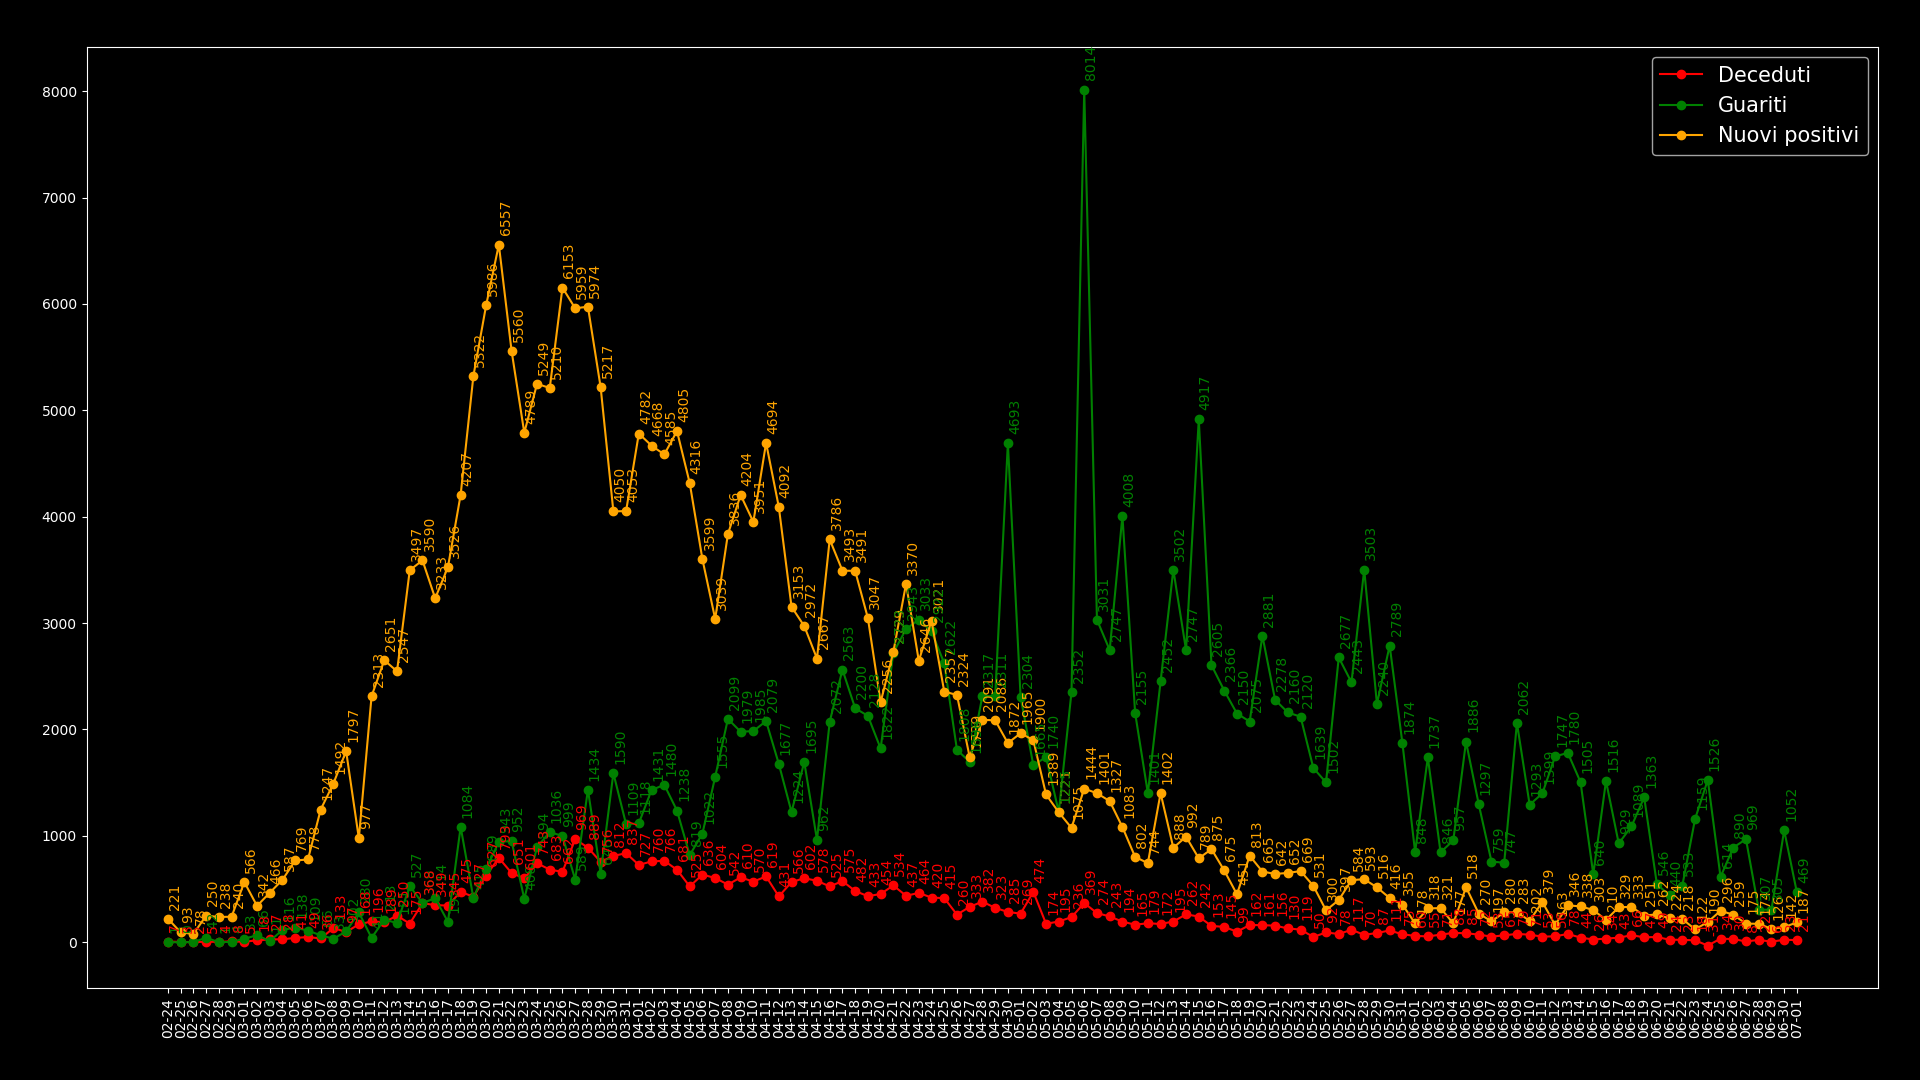
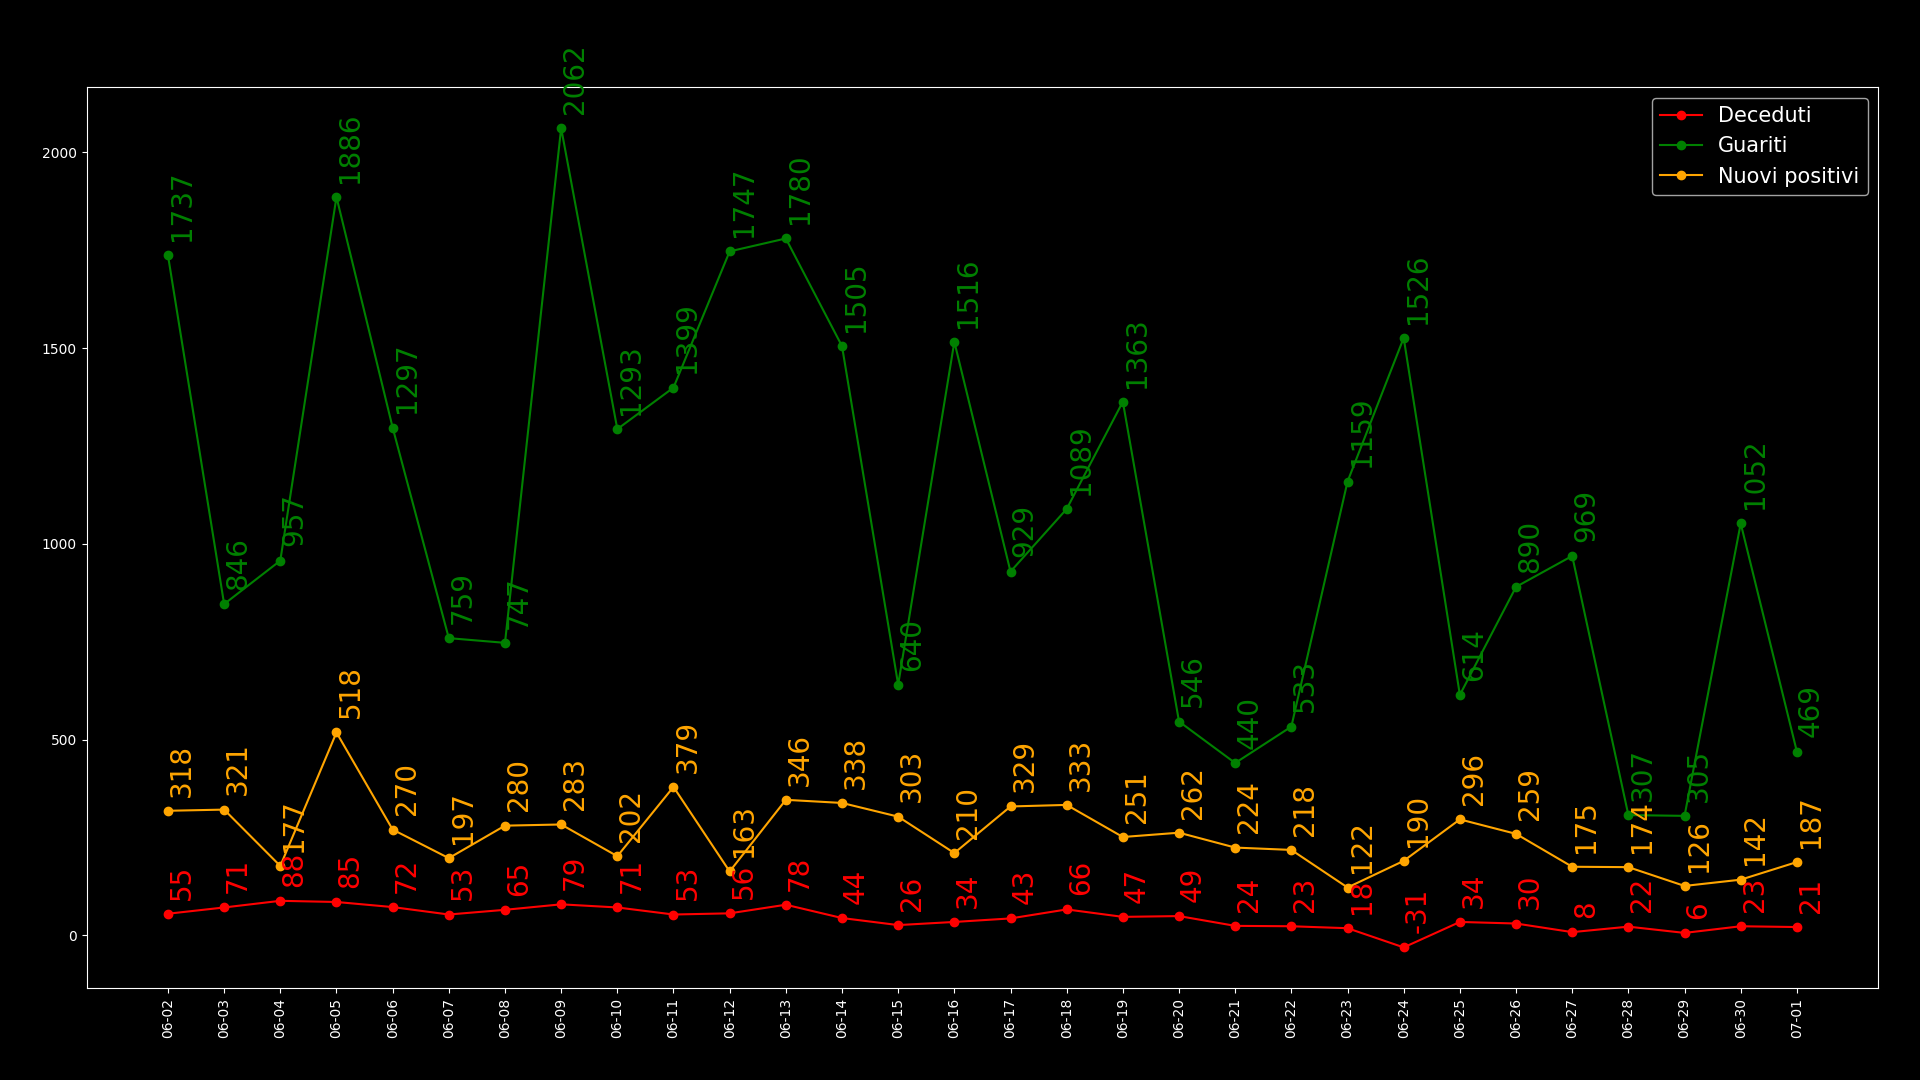
Removed RatioContDeath

diff --git a/covid19graphs/covid19.html b/covid19graphs/covid19.html
@@ -20,11 +20,6 @@
     <div style="margin-top:4%; text-align:center;"><img width="1900" height="1080" class="normal" src="assets/deathconhealperdayline.png"></div>
     <div style="margin-top:4%; text-align:center;"><img width="1900" height="1080" class="normal" src="assets/totposandvariation.png"></div>
     <div style="margin-top:4%; text-align:center;"><img width="1900" height="1080" class="normal" src="assets/tampscontdeath.png"></div>
-    <div style="text-align: center;margin-top: 4%;">
-        <div style="text-align:center;display:inline;"><img class="normal" border="1px" src="assets/posnegcumpie.png"></div>
-        <div style="text-align:center;display:inline;"><img class="normal" border="1px" src="assets/posnegtodaypie.png"></div>
-    </div>
-    <div style="margin-top:4%; text-align:center;"><img width="1900" class="normal" src="assets/posnegcumbar.png"></div>
 </body>
 
 </html>

diff --git a/covid19graphs/src/totposandnewpos.py b/covid19graphs/src/totposandnewpos.py
@@ -2,6 +2,9 @@ import matplotlib.pyplot as plt
 import numpy as np
 import pandas as pd
 
+#modifica questa variabile per visualizzare gli ultimi n giorni
+days = 30
+
 #Funzione che rimuove da un dataframe nel campo 'data' gli orari
 def filter_date(dataframe): 
     fixeddate = []
@@ -18,7 +21,7 @@ def filter_date(dataframe):
 
 def add_text_overbar(dataframe, title, color, offset, ax):
     for i, v in enumerate(dataframe[title]):
-            ax.text(i-0.25, offset*max(dataframe[title]), str(v), rotation=90, color=color)
+            ax.text(i-0.125, offset*max(dataframe[title]), str(v), rotation=90, color=color, fontsize=15)
 
 def rotate_ticks(axes):
     for ax in axes:
@@ -26,6 +29,7 @@ def rotate_ticks(axes):
             tick.set_rotation(90)
 
 def main():
+    global days
     dataframe = pd.read_csv("dpc-covid19-ita-andamento-nazionale.csv", sep=",", index_col=0)
 
     # Rimuovo gli orari, tengo la data
@@ -36,29 +40,32 @@ def main():
 
     #genero la figura e l'array a tre posizioni per i tre plot
     figure, axes = plt.subplots(3, 1)
+
+    dataframe = dataframe[-days:]
+
     #x sono sempre i giorni
     x = dataframe.index
 
     #Sezione totale positivi
-    axes[0].set_title('Totale positivi', fontsize=20)
+    axes[0].set_title('Totale positivi (ultimi 30 giorni)', fontsize=20)
     #Inserisco etichette per ogni barra
     add_text_overbar(dataframe, 'totale_positivi', "white", 1/20, axes[0])
     #axes[0] conterrà il primo grafico a barre
     axes[0].bar(x, dataframe['totale_positivi'], color="blue")
 
     #Sezione variazione positivi
-    axes[1].set_title('Variazione positivi dal giorno precedente', fontsize=20)
+    axes[1].set_title('Variazione positivi dal giorno precedente (ultimi 30 giorni)', fontsize=20)
     #Inserisco etichette per ogni barra
-    add_text_overbar(dataframe, 'variazione_totale_positivi', "white", 1/10, axes[1])
+    add_text_overbar(dataframe, 'variazione_totale_positivi', "white", 4, axes[1])
     #axes[1] conterrà il secondo grafico a barre
     axes[1].bar(x, dataframe['variazione_totale_positivi'], color="red")
 
     #Sezione nuovi positivi per giorno
-    axes[2].set_title('Nuovi positivi giornalieri', fontsize=20)
+    axes[2].set_title('Nuovi positivi giornalieri (ultimi 30 giorni)', fontsize=20)
     #Inserisco etichette per ogni barra
     add_text_overbar(dataframe, 'nuovi_positivi', "white", 1/20, axes[2])
     #axes[2] conterrà il secondo grafico a barre
-    axes[2].bar(x, dataframe['nuovi_positivi'], color="green")
+    axes[2].bar(x, dataframe['nuovi_positivi'], color="brown")
 
     #Ruoto le etichette sull'asse x in verticale
     rotate_ticks(axes)

diff --git a/covid19graphs/src/conthealdeathperday.py b/covid19graphs/src/conthealdeathperday.py
@@ -1,6 +1,8 @@
 import matplotlib.pyplot as plt
 import pandas as pd
 import numpy as np
+#modifica questa variabile per visualizzare gli ultimi n giorni
+days = 30
 
 
 def filter_date(dataframe): 
@@ -35,11 +37,12 @@ def add_labels(series, days, ax):
     colors = ("orange", "green", "red")
     for color, ser in zip(colors,series):
         for day, value in zip(days, ser):
-            ax.text(day, value + 1/70*offset, str(value), color = color, rotation=90)
+            ax.text(day, value + 1/40*offset, str(value), color = color, rotation=90, fontsize=20)
+
 
 def main():
+    global days
     dataframe = pd.read_csv("dpc-covid19-ita-andamento-nazionale.csv", sep=",", index_col=0)
-
     # Rimuovo gli orari, tengo la data
     filter_date(dataframe)
 
@@ -52,7 +55,7 @@ def main():
     fig, ax = plt.subplots(1, 1)
     fig.set_size_inches(19.2, 10.8)
 
-
+    dataframe = dataframe[-days:]
     ax.plot(dataframe.index, dataframe['deceduti'], color="red", marker='o')
     ax.plot(dataframe.index, dataframe['dimessi_guariti'], color="green", marker='o')
     ax.plot(dataframe.index, dataframe['nuovi_positivi'], color="orange", marker='o')

diff --git a/covid19graphs/src/tampscontdeath.py b/covid19graphs/src/tampscontdeath.py
@@ -2,6 +2,9 @@ import matplotlib.pyplot as plt
 import pandas as pd
 import numpy as np
 
+#modifica questa variabile per visualizzare gli ultimi n giorni
+days = 30
+
 def filter_date(dataframe):
     fixeddate = []
 
@@ -33,12 +36,13 @@ def remove_cumulation(series):
 
 
 def main():
+    global days
     dataframe = pd.read_csv("dpc-covid19-ita-andamento-nazionale.csv", sep=",", index_col=0)
     #Passa una serie del dataframe, ne rimuoverà la cumulazione dei dati, non è in loco
     dataframe['tamponi'] = remove_cumulation(dataframe['tamponi'])
     dataframe['deceduti'] = remove_cumulation(dataframe['deceduti'])
     dataframe['dimessi_guariti'] = remove_cumulation(dataframe['dimessi_guariti'])
-    dataframe = dataframe[-30:]
+    dataframe = dataframe[-days:]
 
     # Rimuovo gli orari, tengo la data
     filter_date(dataframe)
